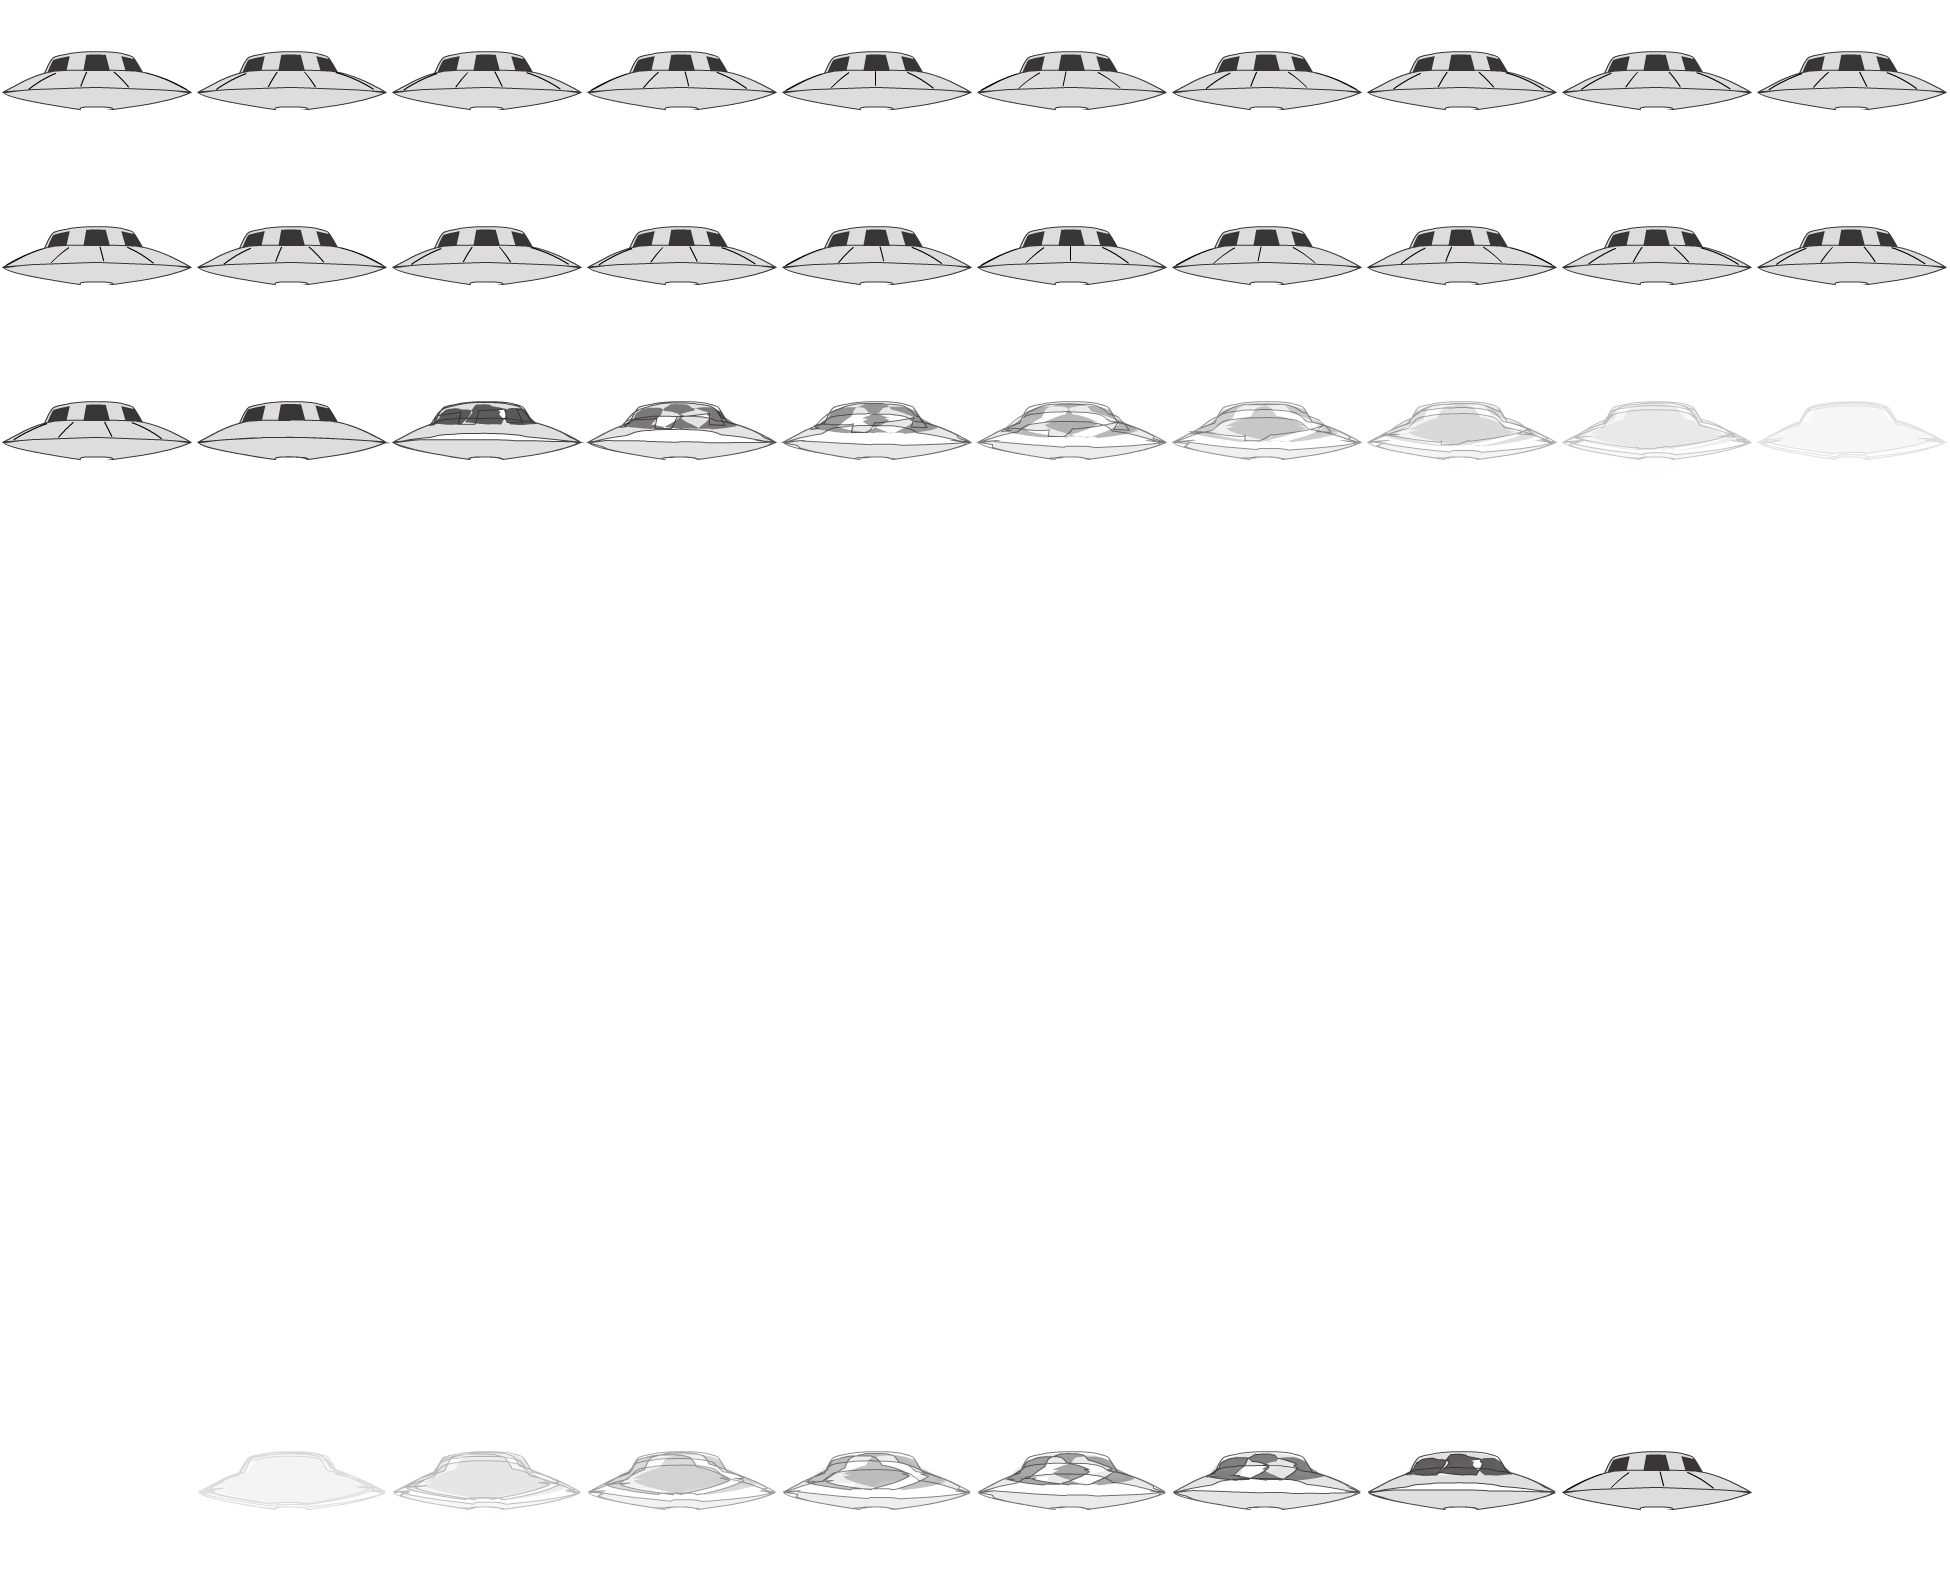
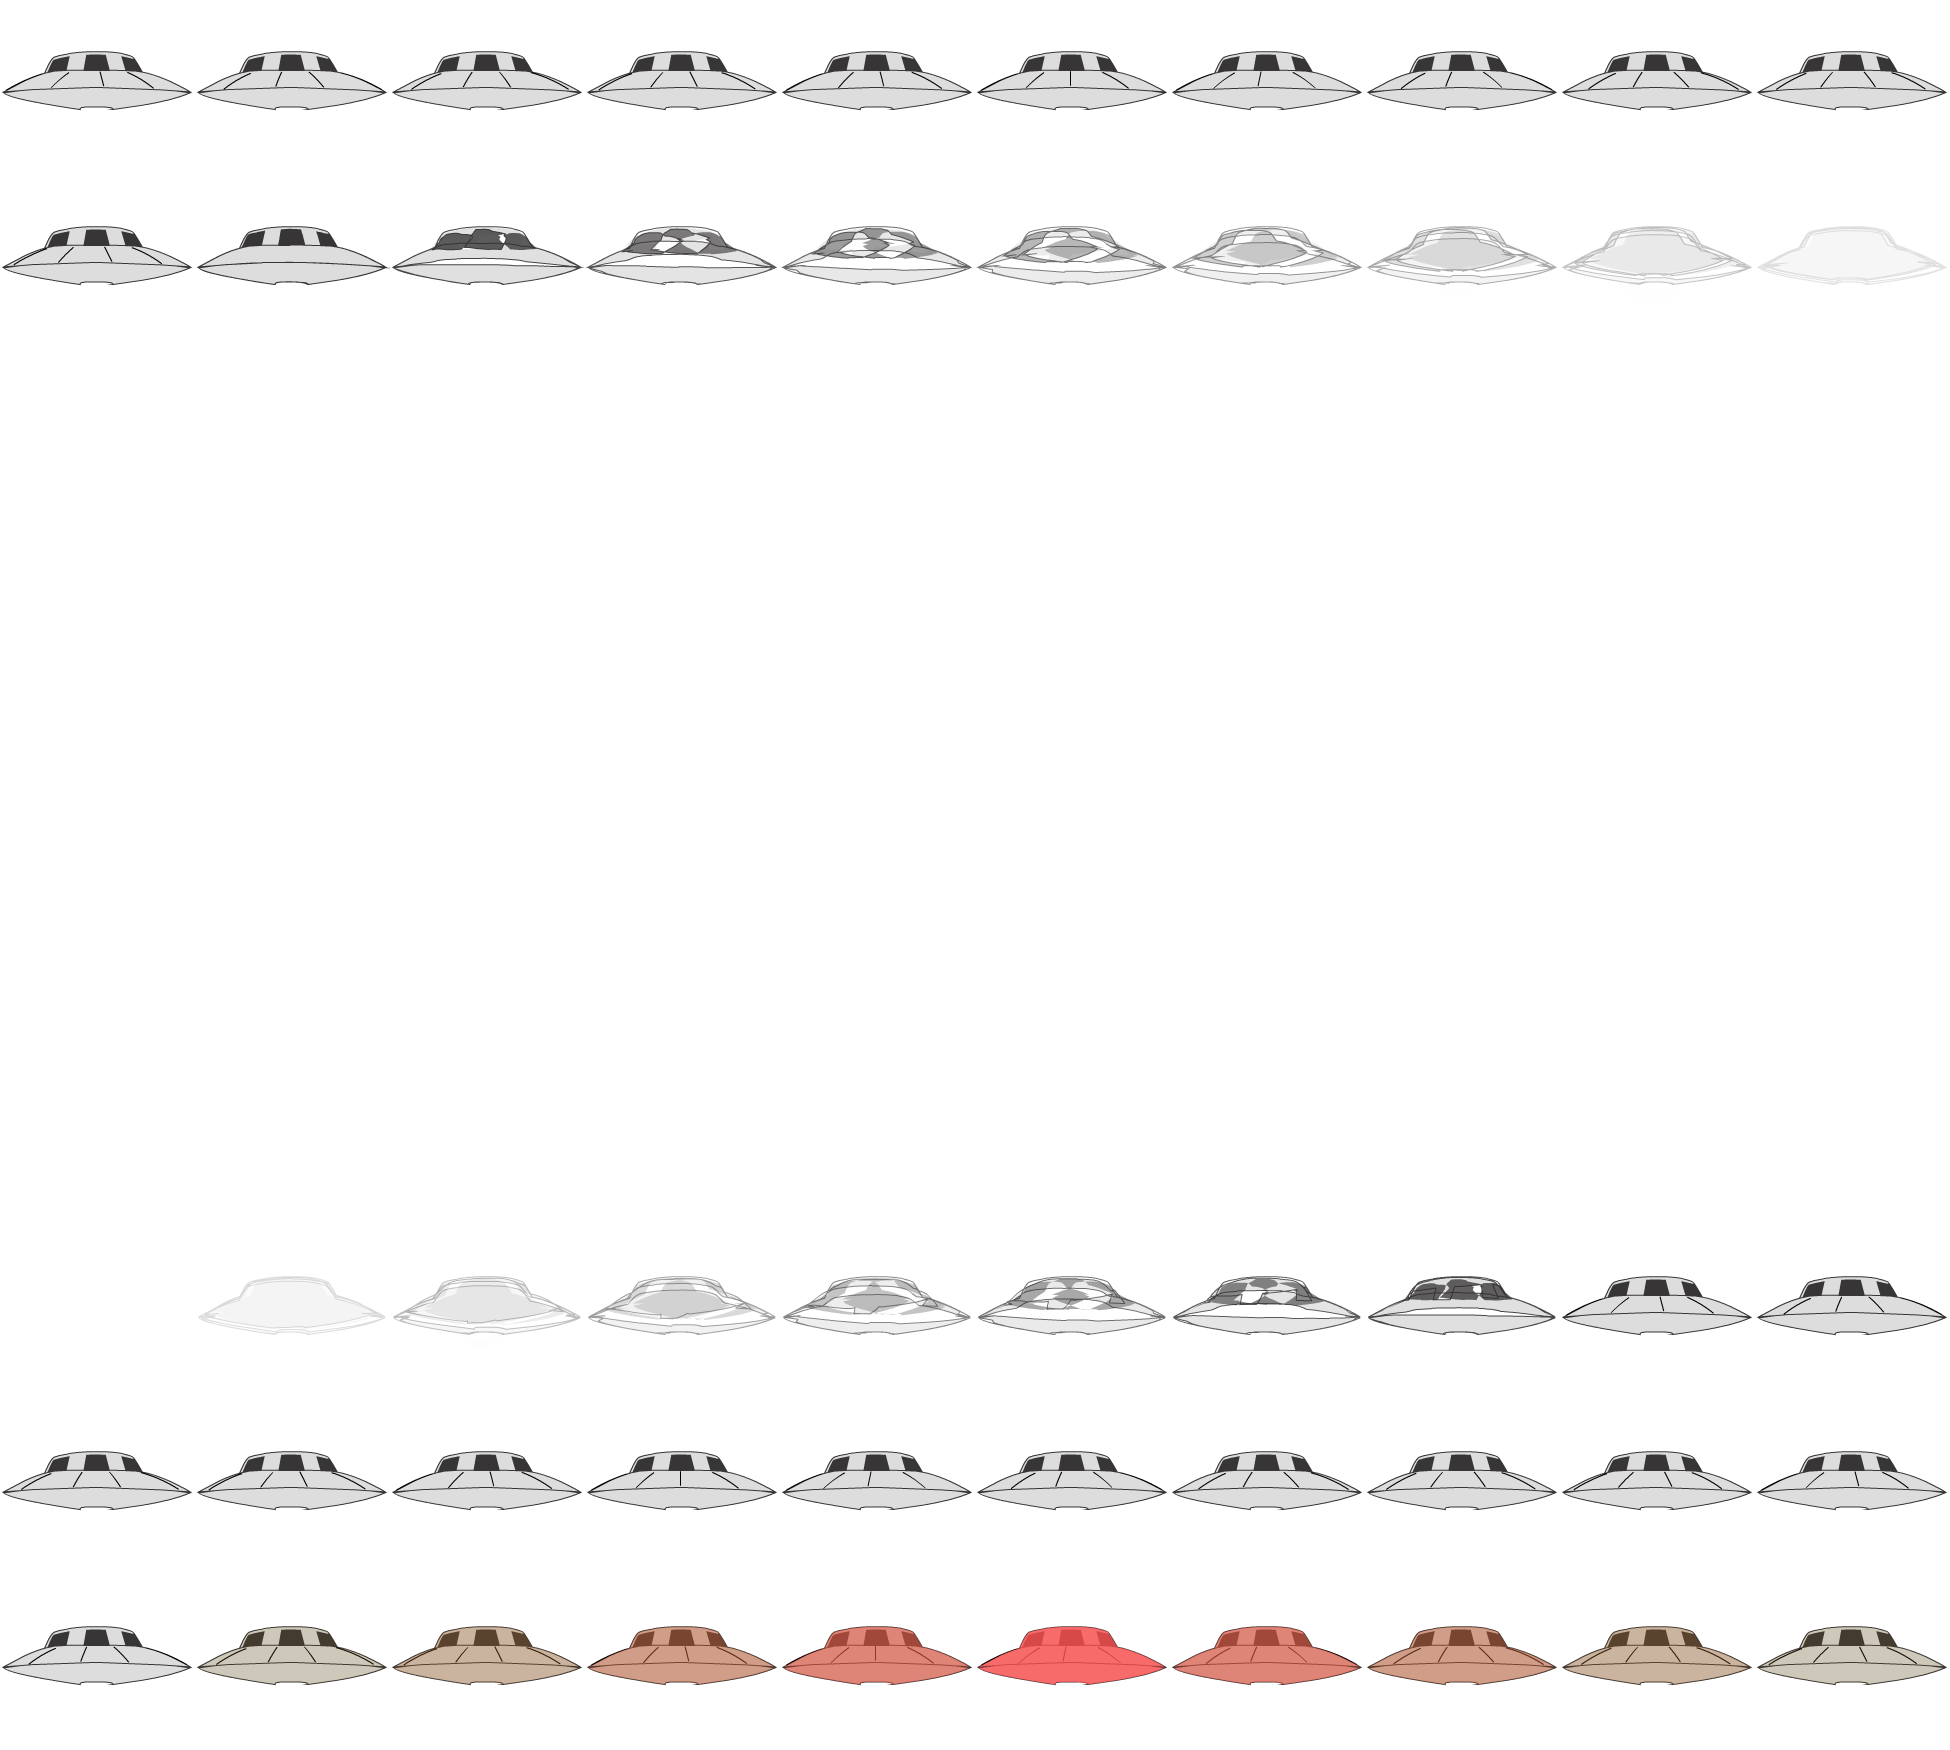
- Ship flashes red when energy < 25% - Fix white energy bar on energy gain

diff --git a/js/script.js b/js/script.js
@@ -595,6 +595,8 @@ function tick(){
 			$('#energybar').css('width',(tallyMon.energy*3)+"px");
 			if( tallyMon.energy < 25 ){
 				if( createjs.Ticker.getTicks() % (presets.fps/2) == 0) $('#energybar').toggleClass('white');
+			}else if(tallyMon.energy > 25 ){
+				$('#energybar').removeClass('white');
 			}
 		
 		//}
@@ -675,6 +677,11 @@ function EnergyUpdate(pVal){
 	$('#energy span').html(Math.floor(tallyMon.energy)+"%");
 	if( tallyMon.energy <= 0 && endTimer == 0 ){
 		WarpOut();
+	}
+	if( tallyMon.energy <= 25 && ((tallyMon.energy - pVal) > 25) ){
+		pChars[shipIdx].actor.sprite.gotoAndPlay("lownrg");
+	}else if( tallyMon.energy >= 25 && ((tallyMon.energy - pVal) < 25) ){
+		pChars[shipIdx].actor.sprite.gotoAndPlay("spin");
 	}
 }
 

diff --git a/js/cShip.js b/js/cShip.js
@@ -10,12 +10,13 @@ function Ship(pName, pImg) {
 			"animations":
 			{
 				"spin": [0, 9, "spin"],
-				"warp": [10, 58, ""],
-				"warpin": [59,88, "spin"]
+				"warp": [10, 49, ""],
+				"warpin": [50,89, "spin"],
+				"lownrg": [90,99, "lownrg"]
 			},
 			"images": [pImg],
 			"frames":
-			{"regX": 97, "width": 195, "count": 89, "regY": 50, "height": 175}
+			{"count": 100, "regY": 50, "width": 195, "regX": 97, "height": 175}
 		},
 		"position":{
 			"x":0,
